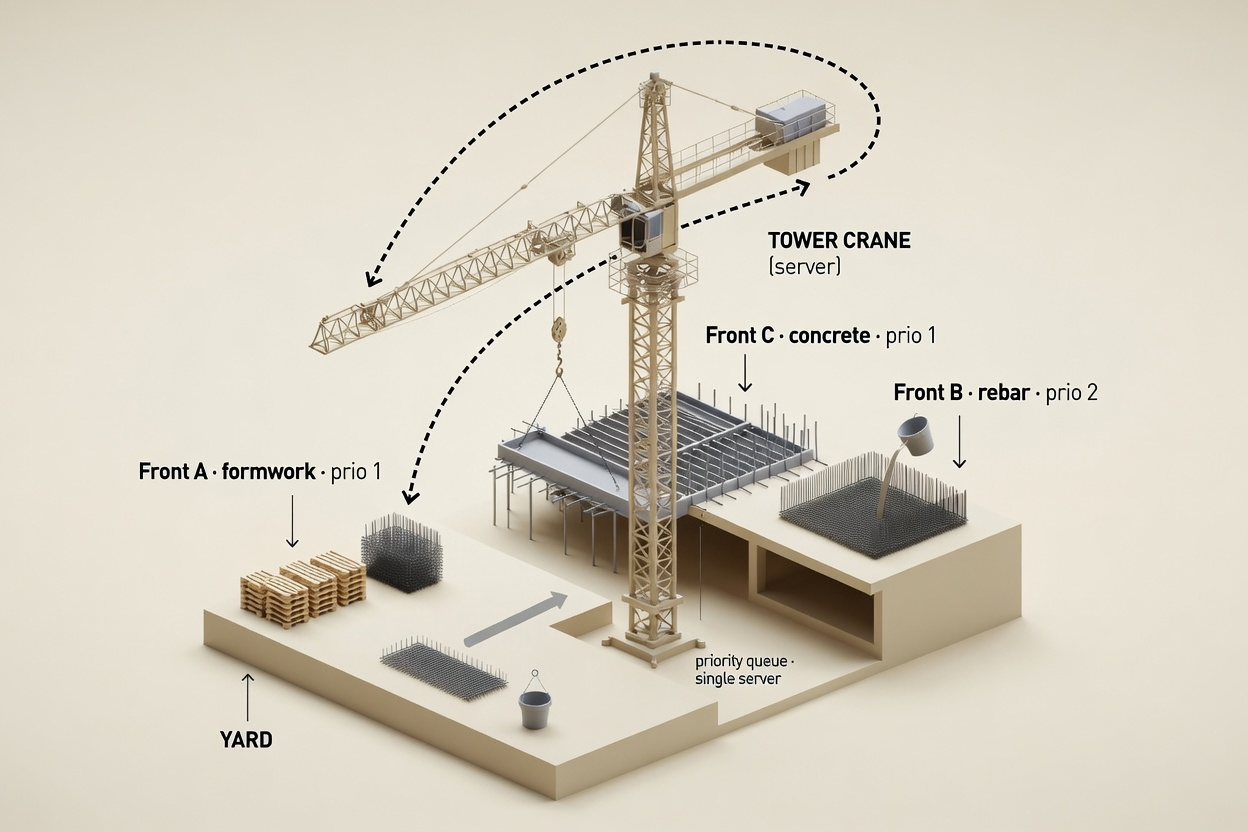
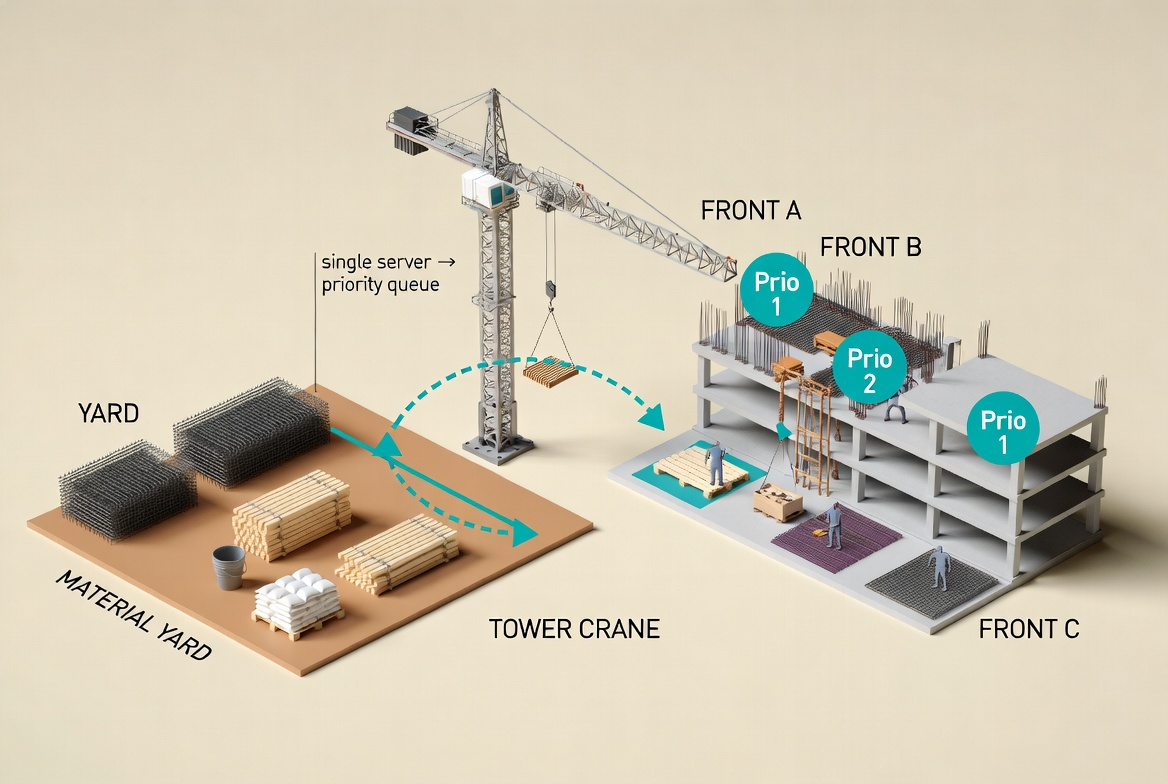
Tower crane illust: distinct material yard vs fronts A/B/C with priority

diff --git a/src/lib/simkon/operations.ts b/src/lib/simkon/operations.ts
@@ -293,7 +293,7 @@ export const OPERATIONS: OperationInfo[] = [
     },
     illustration: "/illustrations/tower-crane-multi-front.jpg",
     illustrationCaption:
-      "Single-server multi-front: yard → tower crane → Front A/B/C with priority queue (1 = highest).",
+      "MATERIAL YARD (kiri, terpisah) → Tower crane (single server) → Front A/B/C di bangunan (lokasi berbeda). Prioritas 1 = tertinggi.",
   },
 
 ];
